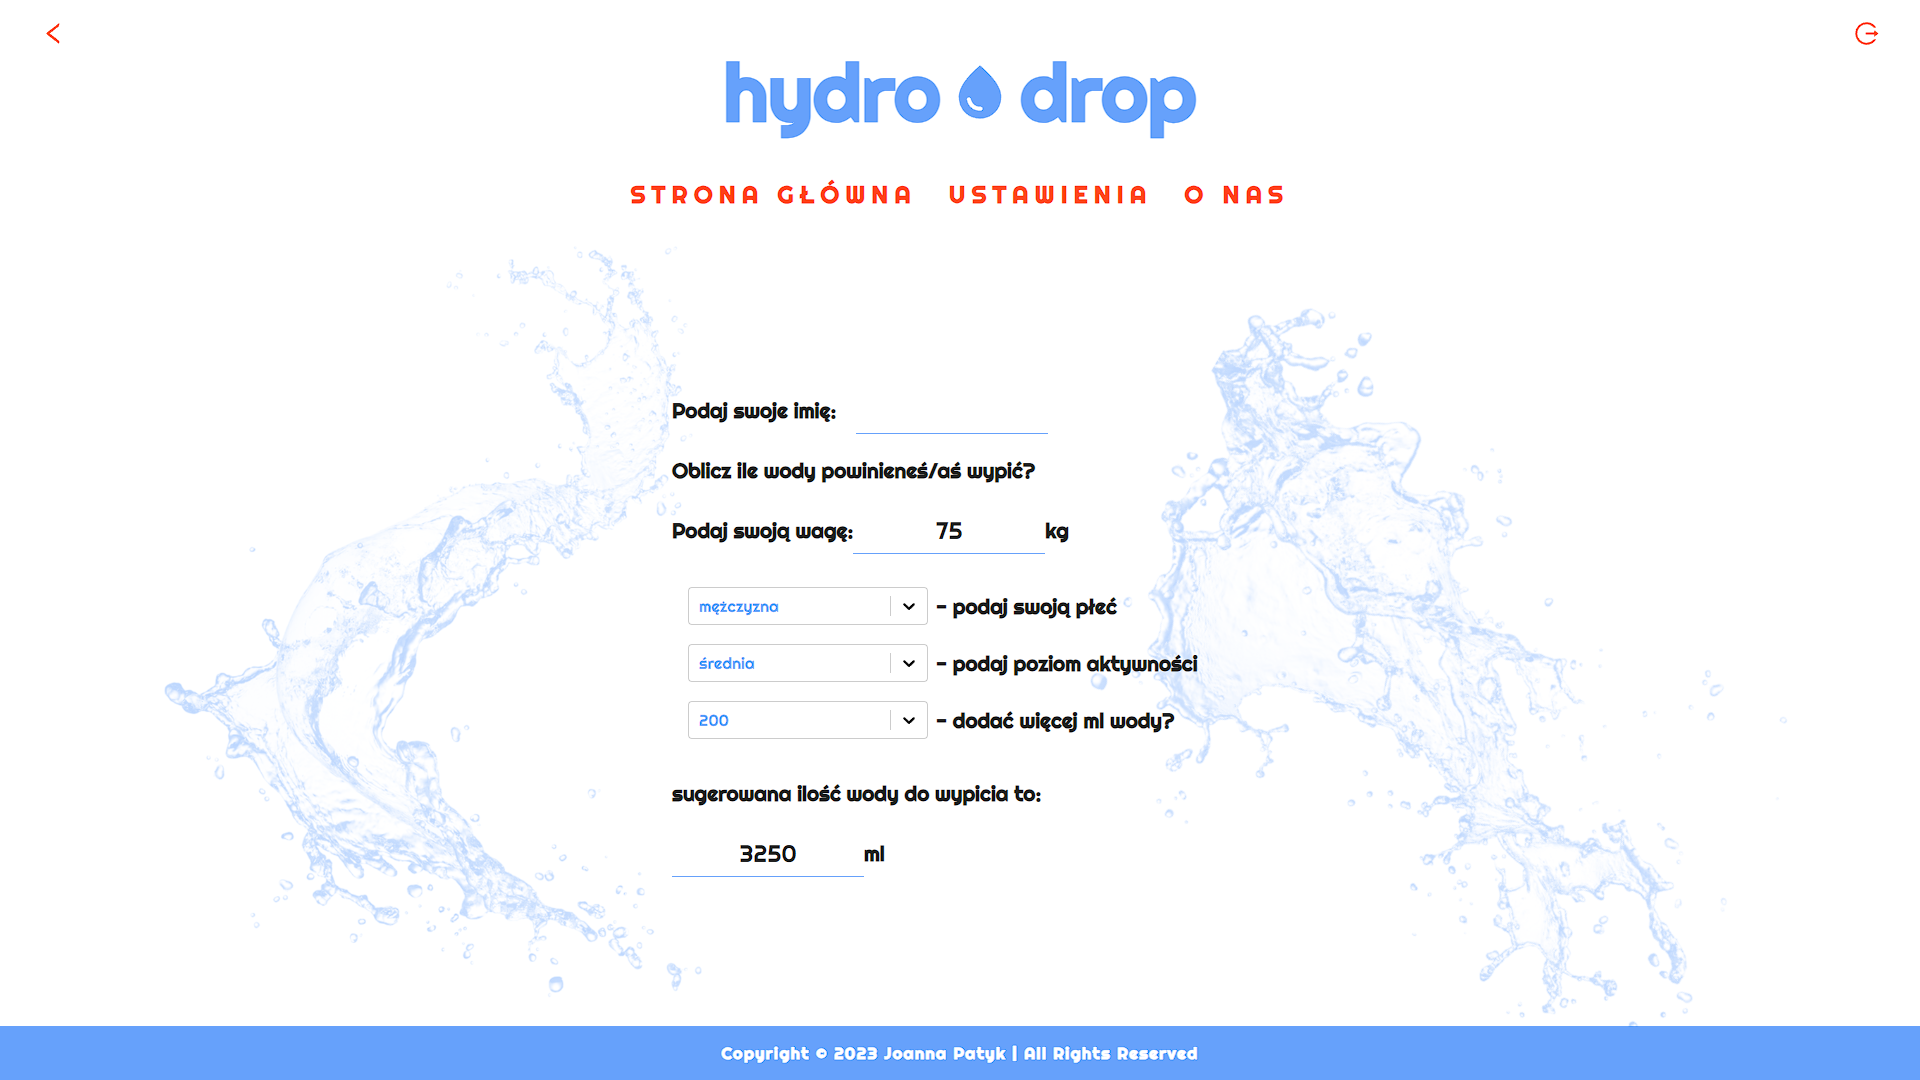
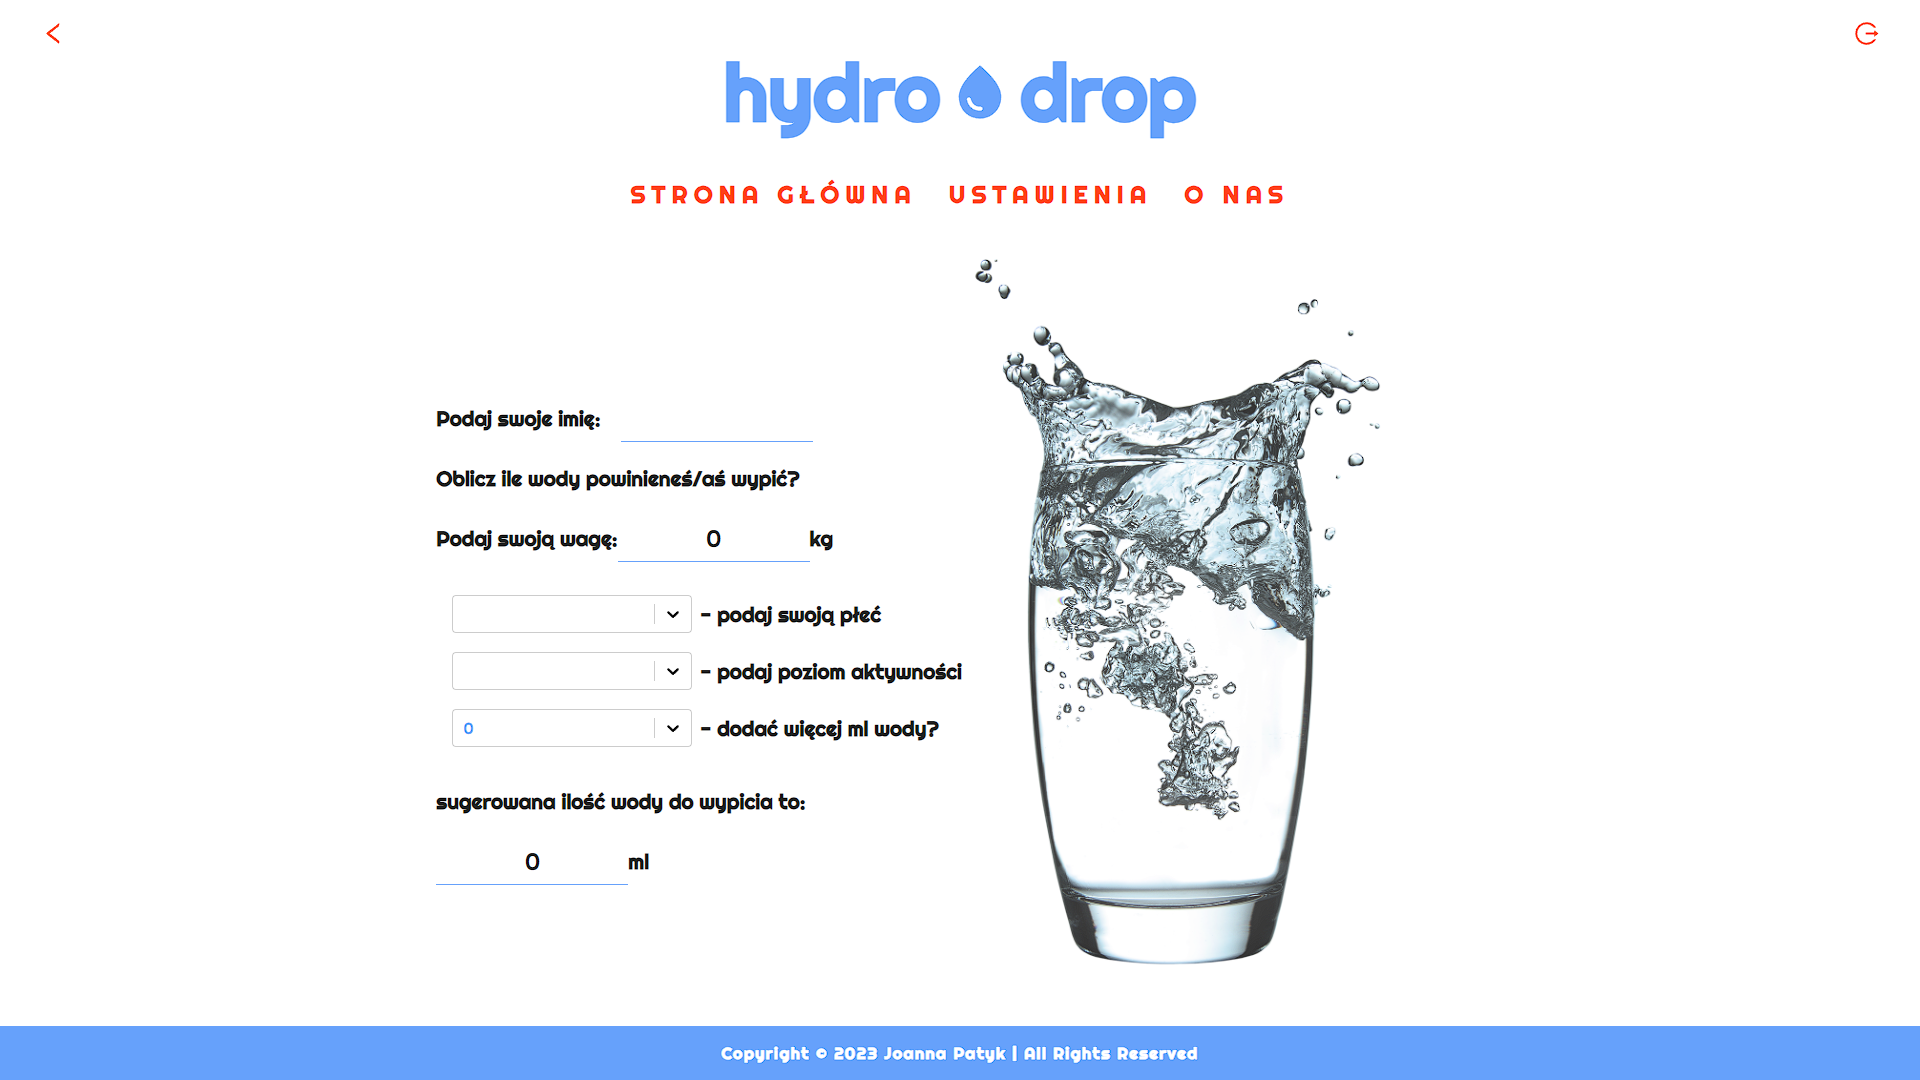
A few changes in UI

diff --git a/src/assets/wrappers/Settings.js b/src/assets/wrappers/Settings.js
@@ -6,6 +6,8 @@ const Wrapper = styled.div`
         margin: 0 auto;
         position: relative;
         overflow: hidden;
+        display: grid;
+        grid-template-columns: 10fr 1fr;
     }
 
     h3 {
@@ -21,7 +23,7 @@ const Wrapper = styled.div`
 
     .choice-container {
         min-height: 76vh;
-        width: 30vw;
+        width: 50%;
         margin: -1rem auto 0;
         display: flex;
         flex-direction: column;
@@ -123,21 +125,11 @@ const Wrapper = styled.div`
 
     .image {
         position: absolute;
+        height: 90%;
+        top: 0;
+        right: 28%;
         z-index: -1;
-        opacity: 0.4;
-    }
-
-    .bg-image-1 {
-        height: 110%;
-        top: -10%;
-        left: 8%;
-    }
-
-    .bg-image-2 {
-        height: 120%;
-        top: -5%;
-        right: 10%;
-        transform: rotate(120deg);
+        opacity: 0.8;
     }
 
     @media (max-width: 1300px) {

diff --git a/src/pages/Settings.js b/src/pages/Settings.js
@@ -8,8 +8,7 @@ import genderOptions from '../utils/gender';
 import activityOptions from '../utils/activity';
 import additionalWater from '../utils/additionalAmount';
 import Wrapper from '../assets/wrappers/Settings';
-import background from '../assets/images/water.png';
-import background2 from '../assets/images/water-2.png';
+import background from '../assets/images/glass.png';
 
 function Settings() {
     const { appState, setAppState } = useAppStateContext();
@@ -117,8 +116,7 @@ function Settings() {
                         <h3>ml</h3>
                     </div>
                 </div>
-                <img className="image bg-image-1" src={background} alt="water" />
-                <img className="image bg-image-2" src={background2} alt="water" />
+                <img className="image" src={background} alt="water" />
             </div>
         </Wrapper>
     );

diff --git a/src/assets/wrappers/About.js b/src/assets/wrappers/About.js
@@ -4,7 +4,7 @@ const Wrapper = styled.div`
     .description-container {
         min-height: 70vh;
         width: 60%;
-        margin: 0 auto;
+        margin: 1rem auto;
         padding: 2rem 4rem;
         display: flex;
         align-items: center;
@@ -15,7 +15,7 @@ const Wrapper = styled.div`
     }
 
     h1 {
-        padding: 1rem 0;
+        padding: 2rem 0;
         text-align: center;
         width: 100%;
         font-size: 4rem;

diff --git a/README.md b/README.md
@@ -12,6 +12,8 @@ After starting the app, the main window displays a glass of water. The user can 
 
 To set a daily goal for the amount of water you want to drink, you can go to the settings page. The app will display your progress towards that goal, allowing you to track how much water you have consumed throughout the day.
 
+![Project Preview](src/assets/images/water-app-4.png)
+
 In the future, I also plan to add a feature that will allow you to view a history of the amount of water you drank on previous days. This will help
 This project was bootstrapped with [Create React App](https://github.com/facebook/create-react-app).
 
